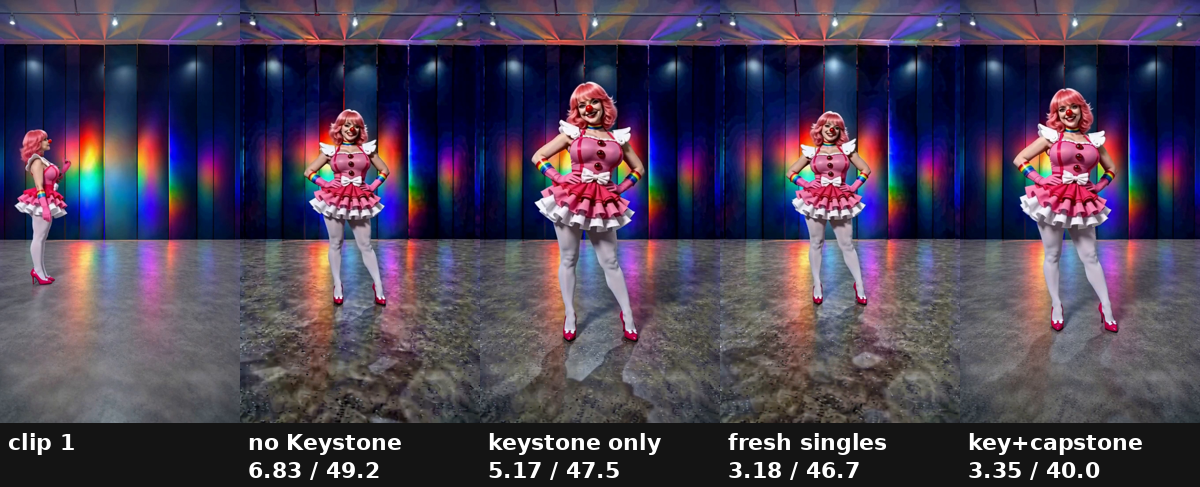
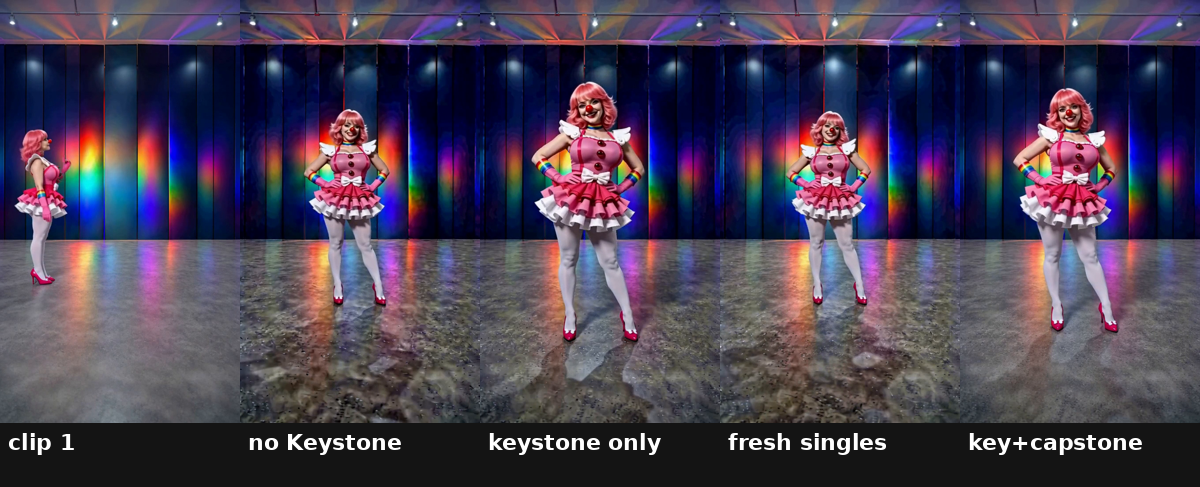
Frame 0 conclusions: re-measure every run on two patches the woman never enters (right wall for colour, bottom-right floor for sharpness/blotchiness); add Keystone + Fresh 5 result
Claude-Session: https://claude.ai/code/session_011kWb32NFr7Zs4Z5czdLEf2

diff --git a/20261101/frame0_conclusions.md b/20261101/frame0_conclusions.md
@@ -6,9 +6,16 @@ All numbers are from single runs. Small motion differences between runs move the
 
 ## How things are measured
 
-- Colour drift: average Lab colour of clip 10 against clip 1, over 10 frames about 20 frames from the end. Higher = more drift.
-- Sharpness: how strong the fine edges are over the same frames. Clip 1 is 24.8. Higher = more over-sharpened, the "baked" look.
+Every chain is measured on clip 10, averaged over 10 frames about 20 frames from the end, against clip 1 at the same frames. Only two patches the woman never walks into are measured, because she stands in a different place in every run:
+
+![The two measured patches on clip 1: wall (yellow) and floor (cyan)](media/measure_regions.png)
+
+- **Wall colour drift** (yellow patch, the wall on the right behind her): how far its average colour has moved from clip 1. Higher = more colour drift.
+- **Floor sharpness** (cyan patch, bottom-right floor): how strong the fine grit and edges are. Clip 1 is 3.3. Higher = more over-sharpened, the "baked" look.
+- **Floor blotchiness** (same patch): how much the floor's brightness varies. Clip 1 is 5.0. Higher = blotchier.
 - Same workflow, seed and prompts for every chain (clown walk: 8-second clips, 9:16 at 0.5 MP, Clown Context 39 with drop last 17).
+
+An earlier version of these notes averaged the whole frame. That mixed in the woman and let different parts of the frame cancel out, so all tables below have been re-measured on these two patches.
 
 ## 1. One clip isn't enough to see anything
 
@@ -30,11 +37,11 @@ The keystone and capstone gains were measured near the end of clip 10, far outsi
 
 The first Late Lock version wrote the capstone into the clip's last single-frame slot, where it got decoded. The current version only tacks it on during sampling, cuts it off, and puts the real frame 0 back. Same workflow, rerun for 10 clips:
 
-| Run | Colour drift | Sharpness |
-|---|---|---|
-| No Keystone (baseline) | 6.83 | 49.2 |
-| Keystone + capstone, old (capstone decoded in the clip) | 3.39 | 38.9 |
-| Keystone + capstone, current (capstone cut off) | 3.35 | 40.0 |
+| Run | Wall colour drift | Floor sharpness | Floor blotchiness |
+|---|---|---|---|
+| No Keystone (baseline) | 3.83 | 29.2 | 10.06 |
+| Keystone + capstone, old (capstone decoded in the clip) | 2.52 | 22.0 | 6.64 |
+| Keystone + capstone, current (capstone cut off) | 2.32 | 21.8 | 7.59 |
 
 ![Clip 10, about 20 frames from the end: no Keystone, old capstone, current capstone](media/capstone_retest_clip10.png)
 
@@ -42,25 +49,25 @@ The first Late Lock version wrote the capstone into the clip's last single-frame
 
 Full-quality video: [capstone_retest_clip10.mp4](media/capstone_retest_clip10.mp4)
 
-Decoding the capstone added nothing. **The current version is confirmed:** about half the colour drift and much less over-sharpening, with nothing from clip 1 left in the clips.
+Decoding the capstone added nothing. **The current version is confirmed:** less colour drift, a smoother floor and much less over-sharpening, with nothing from clip 1 left in the clips.
 
-## 4. A steady frame 0 matters most for colour; a clean one matters for sharpness
+## 4. A bad frame 0 makes the chain bake much harder
 
 Phase 1b: the top row of the grid as 10-clip chains. The frame 0 each chain used, on every clip from 2 to 10 (all at full strength):
 
-![The five frame 0 pictures: clean, blur, dark, green tint, degrade](media/frame0_pictures_used.png)
+![The five frame 0 pictures: clean, blur, black, green tint, degrade](media/frame0_pictures_used.png)
 
 Clip 10 of each:
 
-| Chain (keystone front only) | Colour drift | Sharpness |
-|---|---|---|
-| No Keystone (baseline) | 6.83 | 49.2 |
-| Frame 0 clean | 5.17 | 47.5 |
-| Frame 0 blur | 5.37 | 63.6 |
-| Frame 0 dark | 6.02 | 65.4 |
-| Frame 0 green tint | 5.27 | 59.6 |
-| Frame 0 degrade | 5.68 | 58.5 |
-| Keystone + capstone (clean, for comparison) | 3.35 | 40.0 |
+| Chain (keystone front only) | Wall colour drift | Floor sharpness | Floor blotchiness |
+|---|---|---|---|
+| No Keystone (baseline) | 3.83 | 29.2 | 10.06 |
+| Frame 0 clean | 3.47 | 28.4 | 8.54 |
+| Frame 0 blur | 2.64 | 46.6 | 10.14 |
+| Frame 0 black (the "dark" effect came out nearly black) | 4.13 | 57.7 | 9.62 |
+| Frame 0 green tint | 4.13 | 54.6 | 10.84 |
+| Frame 0 degrade | 3.97 | 63.7 | 9.43 |
+| Keystone + capstone (clean, for comparison) | 2.32 | 21.8 | 7.59 |
 
 ![Clip 10 of each chain, about 20 frames from the end](media/frame0_chains_clip10.png)
 
@@ -68,9 +75,9 @@ Clip 10 of each:
 
 Full-quality video: [frame0_chains_clip10.mp4](media/frame0_chains_clip10.mp4)
 
-- **Colour:** even a heavily blurred or green frame 0 holds the colour almost as well as a clean one, and still beats no Keystone. Having the same fixed frame 0 in every clip seems to be what stops the colour drifting, not how good that frame looks.
-- **Sharpness:** a bad frame 0 makes the chain bake much harder: about 58–65 by clip 10, against 47.5 with a clean one. All four bad versions (blur, dark, green, degrade) did it. So frame 0's quality does matter, for the over-sharpened look.
-- **The capstone does more than half of the colour work:** keystone alone 5.17, keystone + late capstone 3.35.
+- **Sharpness:** this is the clear result. Every bad frame 0 (blur, black, green, degrade) made the floor bake far harder by clip 10: 47–64, against 28 with a clean frame 0. So frame 0's quality matters, and it shows as the over-sharpened look.
+- **Colour:** a clean frame 0 on its own only nudged the wall colour (3.47 vs 3.83), and the bad versions landed on both sides of it. Frame 0 alone isn't what holds the colour.
+- **The capstone does most of the work:** keystone + capstone has the least wall drift, the least over-sharpening and a smoother floor than keystone alone.
 
 ## 5. Moving held frames forward is clean; the drift comes from inside each clip
 
@@ -80,19 +87,17 @@ When Clown Context (or Motion Context) carries the held frames over on a block e
 
 Idea: the held tail carries more than one single-frame latent (with 22 held frames: latents 0 and 5, frames 0 and 17), and each one is a full picture copied forward from the drifted clip. Clown Fresh Singles unlocks just those while sampling, so the model draws fresh ones, and puts the real ones back afterwards. The 4-frame latents stay locked and carry the motion. No Keystone, no capstone. Same walk chain, seed and prompts as everything above.
 
-**Correction:** my first number for this run (whole-frame colour drift 3.18) made it look as good as keystone + capstone. Looking at the clips, it isn't: the floor is as blotchy as the no-Keystone run. The whole-frame average hid that, and it also mixed in the woman, who stands in a different place in every run. So I re-measured on two strips she never enters: the bottom 14% of the frame (floor) and the top 7% (ceiling and lights), clip 10 against clip 1, 10 frames averaged:
+A second version was run with Keystone on: clip 1's clean frame 0 in latent 0, and only latent 5 redrawn (and put back afterwards).
 
-| Run | Floor colour drift | Floor blotchiness (clip 1 = 6.1) | Ceiling colour drift | Whole-frame drift (first measure) |
-|---|---|---|---|---|
-| No Keystone (baseline) | 14.02 | 10.25 | 6.20 | 6.83 |
-| Keystone only | 9.11 | 9.66 | 5.12 | 5.17 |
-| Fresh Singles (latents 0 + 5) | 11.97 | 9.37 | 3.31 | 3.18 |
-| Keystone + capstone | **6.80** | **6.93** | **3.01** | 3.35 |
-| Keystone + capstone (old version) | 6.28 | 7.00 | 3.17 | 3.39 |
+| Run | Wall colour drift | Floor sharpness | Floor blotchiness |
+|---|---|---|---|
+| No Keystone (baseline) | 3.83 | 29.2 | 10.06 |
+| Keystone only | 3.47 | 28.4 | 8.54 |
+| Fresh Singles (latents 0 + 5 redrawn) | 3.72 | 19.4 | 9.33 |
+| Keystone + Fresh Singles on latent 5 | 2.33 | 31.9 | 9.16 |
+| **Keystone + capstone** | **2.32** | 21.8 | **7.59** |
 
-The two strips that were measured, clip 10 of each run left to right (clip 1, no Keystone, keystone only, Fresh Singles, keystone + capstone, old keystone + capstone), floor on top, ceiling below:
-
-![Measured strips: floor and ceiling of clip 10 for each run](media/measure_strips_clip10.png)
+My first number for Fresh Singles (whole-frame drift 3.18) made it look as good as keystone + capstone. Looking at the clips, it isn't: its floor is nearly as blotchy as the no-Keystone run. That's what led to measuring only the two patches above.
 
 ![Clip 10, about 20 frames from the end: no Keystone, keystone only, Fresh Singles, keystone + capstone](media/fresh_singles_clip10.png)
 
@@ -100,11 +105,11 @@ The two strips that were measured, clip 10 of each run left to right (clip 1, no
 
 Full-quality video: [fresh_singles_clip10.mp4](media/fresh_singles_clip10.mp4)
 
-- **Fresh Singles helps some colour** (floor 11.97 vs 14.02, ceiling 3.31 vs 6.20), but it does **not** stop the floor going blotchy, which stays near the no-Keystone level.
-- **Keystone + capstone is clearly the best** on every strip measure, and its floor stays almost as smooth as clip 1. The old and new capstone versions still match.
-- The whole-frame average used in sections 3 and 4 is too crude on its own. From here on, results use the floor and ceiling strips; the earlier tables still show the right order between runs, but the gaps are better read from the regional numbers.
+- **Fresh Singles alone** gave the least floor grit of any run (19.4), but the wall colour barely moved and the floor stayed blotchy.
+- **Keystone + Fresh Singles on latent 5** matched keystone + capstone on wall colour (2.33 vs 2.32), the best colour of anything without a capstone, but the floor still baked and stayed blotchy.
+- **Keystone + capstone is still the best overall**: best colour and the smoothest floor.
 
-Running next: Keystone + Fresh Singles on latent 5, then keystone + capstone + Fresh Singles on latent 5.
+Running next: keystone + capstone + Fresh Singles on latent 5, to see whether redrawing latent 5 adds anything on top of the best setup.
 
 ## Running now
 
